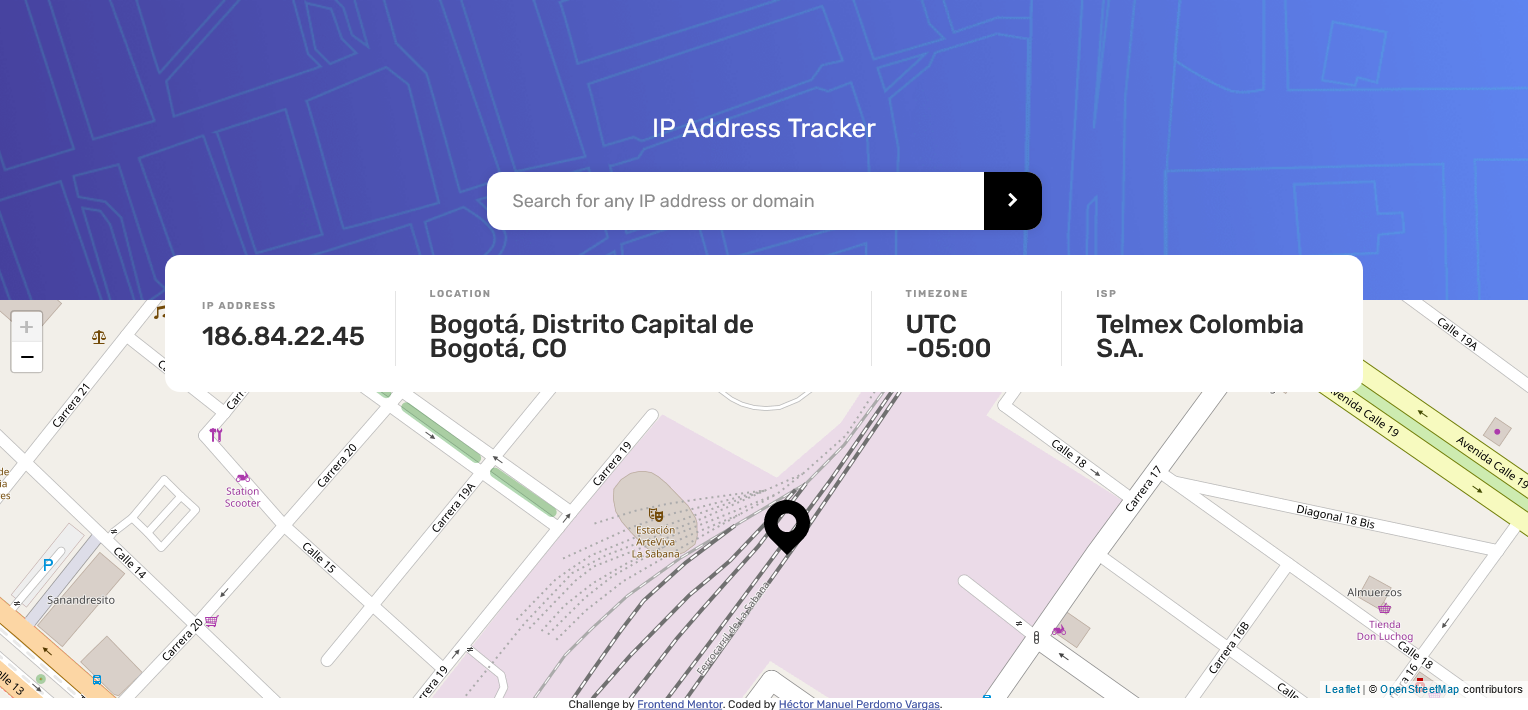
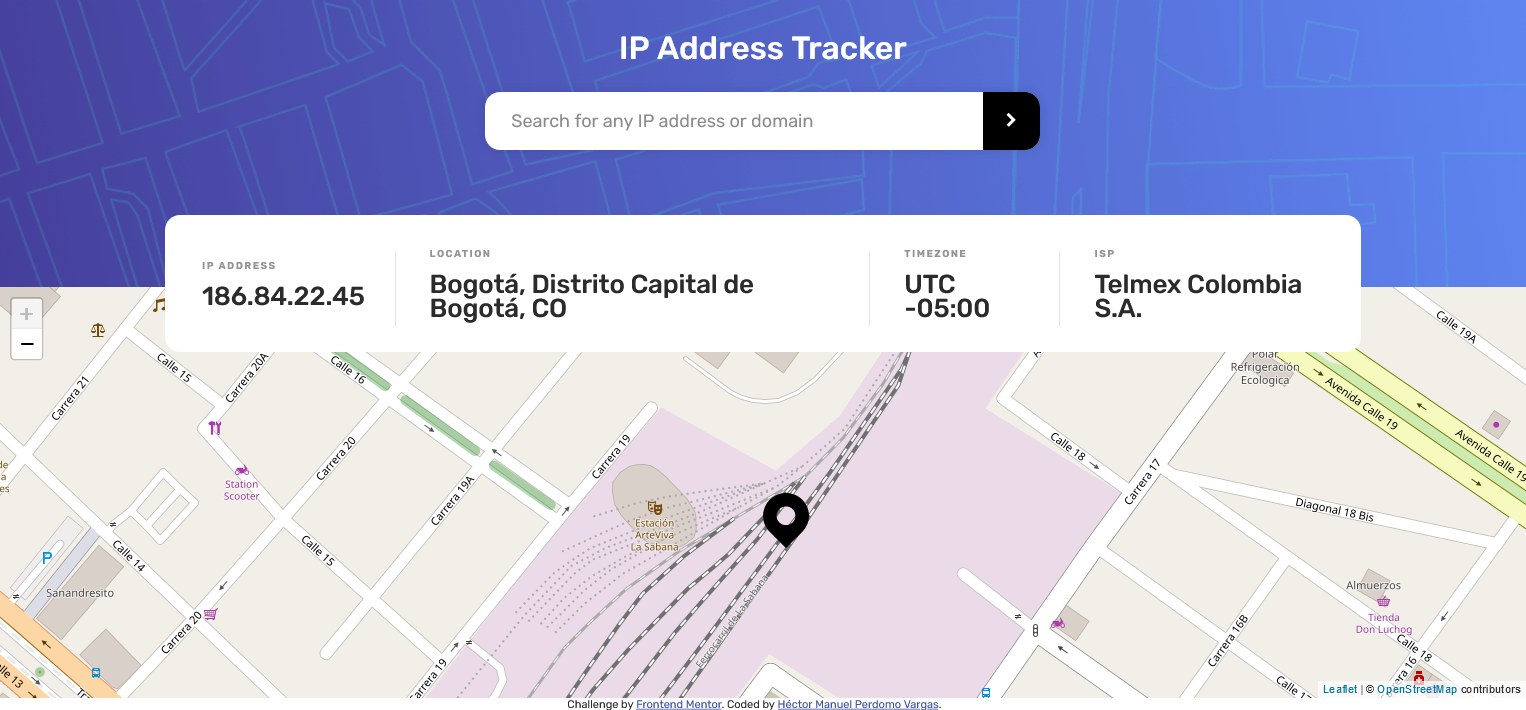
New screenshot

diff --git a/src/App.js b/src/App.js
@@ -247,7 +247,7 @@ const Details = styled.div`
     flex-direction: row;
     gap: 65px;
     padding: 32px 37px;
-    bottom: -65px;
+    bottom: -55px;
   }
 `;
 
